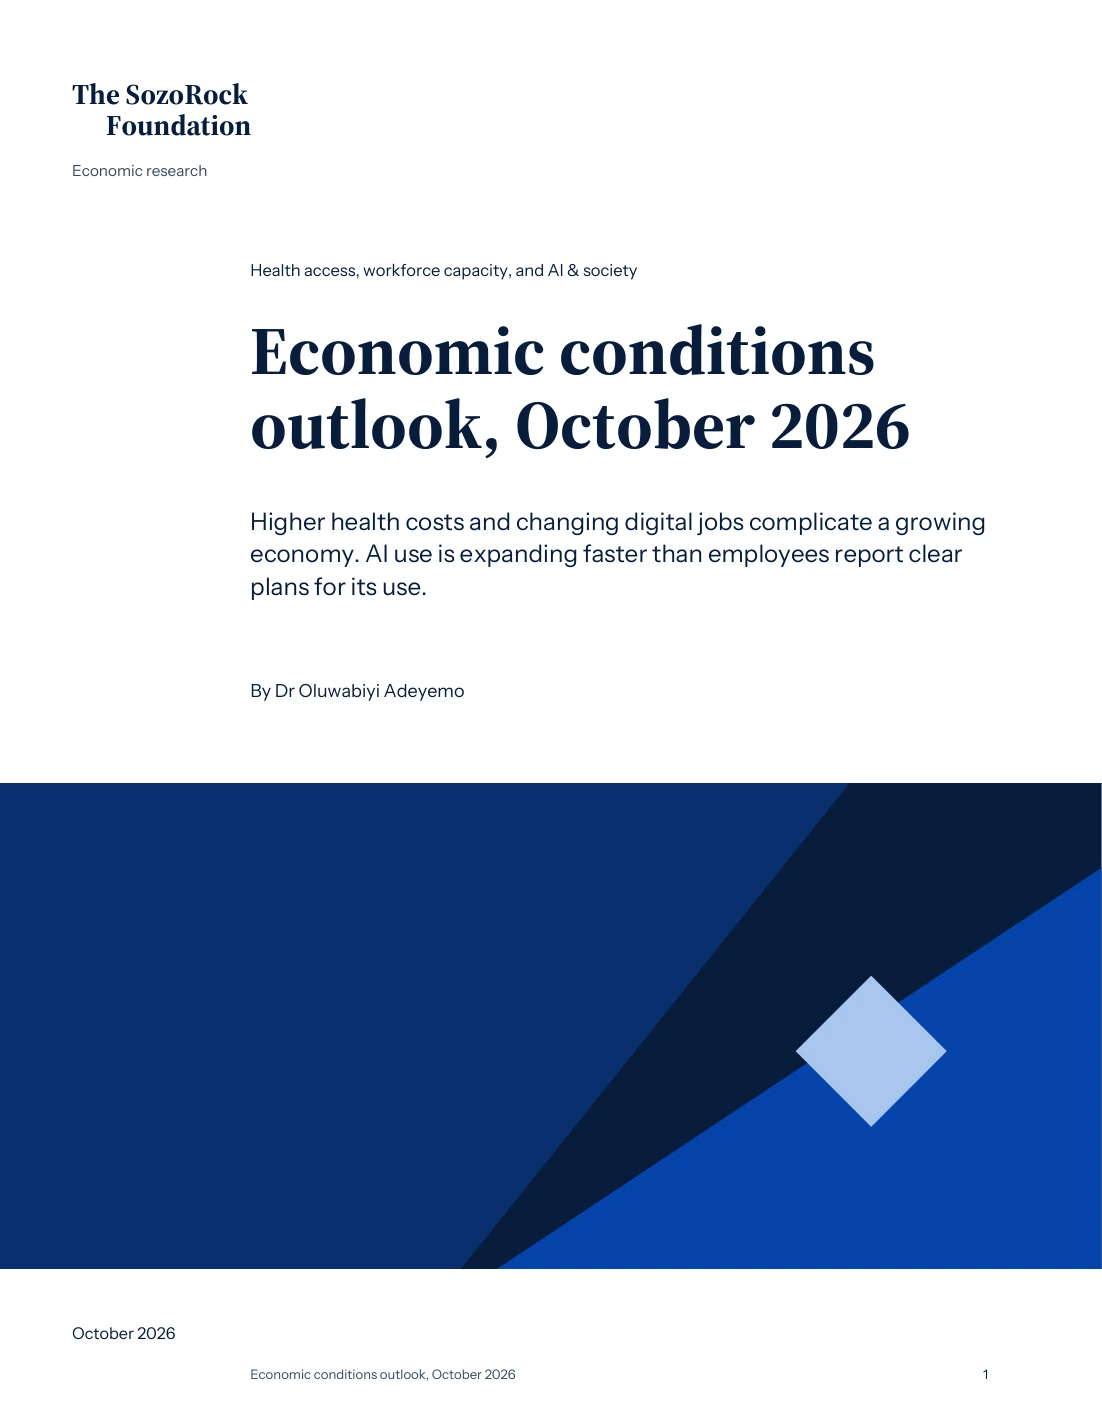
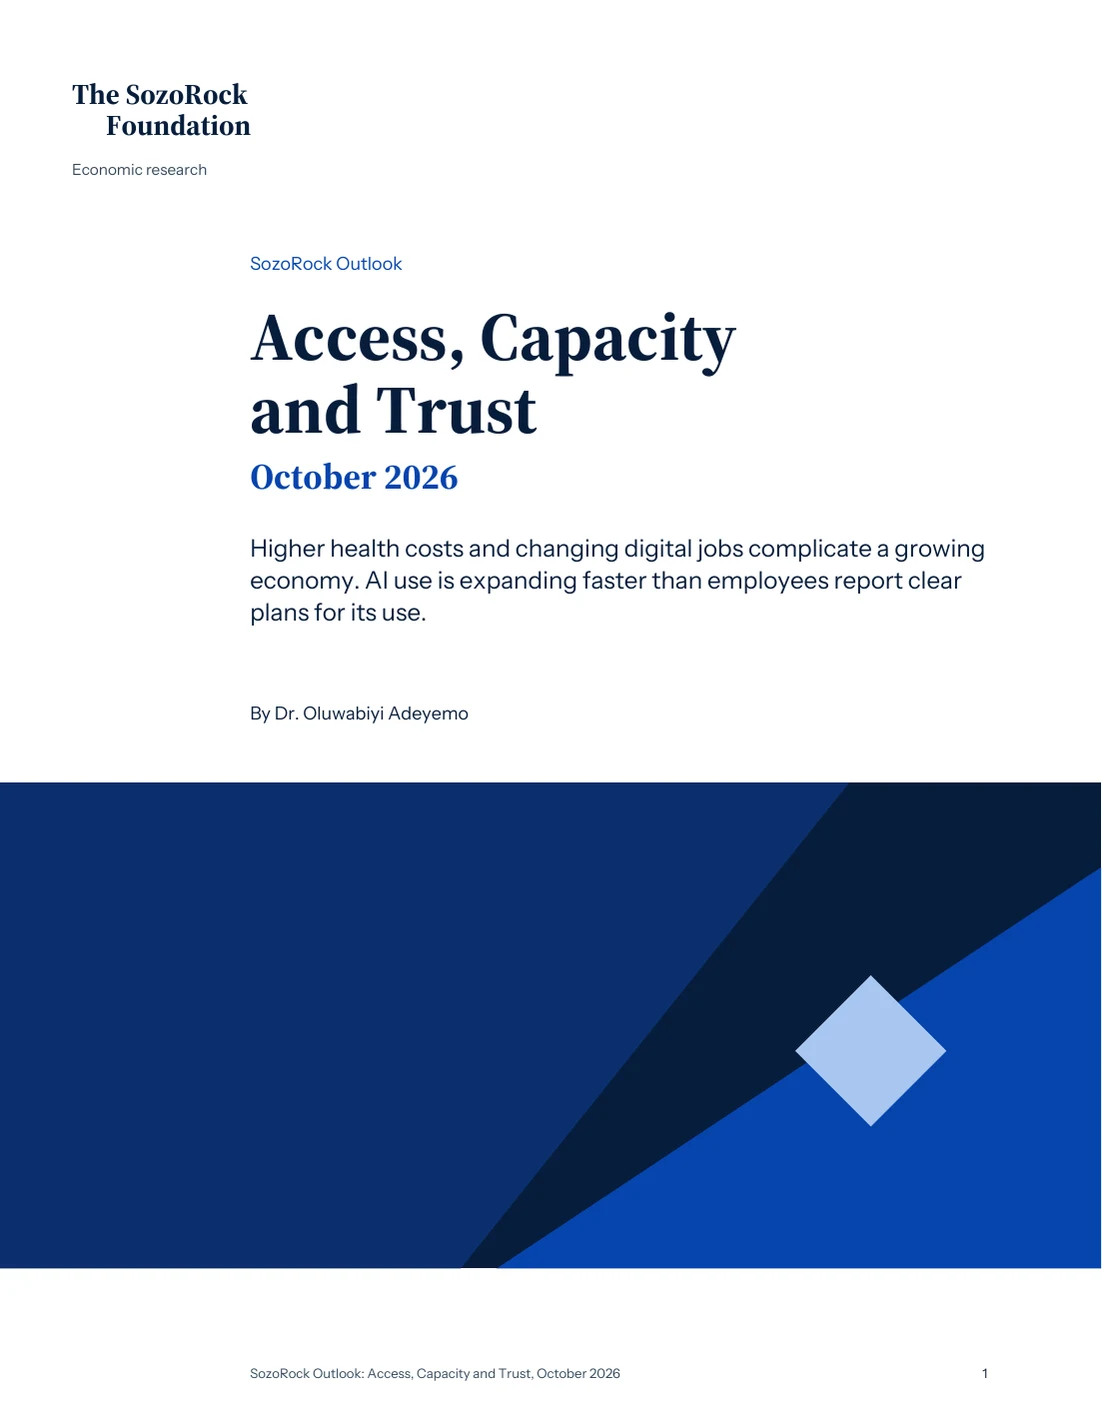
Retitle the October outlook as SozoRock Outlook: Access, Capacity and Trust

diff --git a/src/site/outlook.jsx b/src/site/outlook.jsx
@@ -47,7 +47,7 @@ function Exhibit({ outlook, number, label }) {
 
 export function OutlookFeature({ outlook, compact = false }) {
   return <article className={`outlook-feature ${compact ? "is-compact" : ""}`}>
-    <div><p className="ns-eyebrow">Economic outlook · {outlook.date}</p><h2 className="ns-stmt s40"><Link href={outlook.path}>{outlook.title}</Link></h2><p className="ns-body">Higher health costs and changing digital jobs complicate a growing economy. The choices institutions make will shape access, employment, and accountable services.</p><div className="ns-actions"><Btn href={outlook.path}>Read the outlook</Btn><span className="ns-src">By {outlook.author} · 9-page download</span></div></div>
+    <div><p className="ns-eyebrow">{outlook.series} · {outlook.date}</p><h2 className="ns-stmt s40"><Link href={outlook.path}>{outlook.displayTitle}</Link></h2><p className="ns-body">Higher health costs and changing digital jobs complicate a growing economy. The choices institutions make will shape access, employment, and accountable services.</p><div className="ns-actions"><Btn href={outlook.path}>Read the outlook</Btn><span className="ns-src">By {outlook.author} · 9-page download</span></div></div>
     <Link className="outlook-feature-cover" href={outlook.path}><img src={outlook.cover} alt={`${outlook.title} cover`} width="612" height="792" loading="lazy" decoding="async" /></Link>
   </article>;
 }
@@ -57,7 +57,7 @@ export function OutlookPage({ outlook }) {
   const url = encodeURIComponent(outlook.canonicalUrl);
   return <article className="ns outlook-page">
     <header className="outlook-hero ns-shell">
-      <div><Link className="outlook-breadcrumb" href="/publications">Research</Link><p className="outlook-label">Economic outlook · {outlook.date}</p><h1>{outlook.title}</h1><p className="outlook-deck">{outlook.abstract}</p><p className="outlook-byline">By <a href={outlook.orcid}>{outlook.author}</a> · Analysis · 5-minute read</p><div className="ns-actions"><Btn href={outlook.accessPath}>Download the nine-page report</Btn><a className="outlook-textlink" href="#outlook-analysis">Read the analysis</a></div><p className="outlook-source">Free PDF with email verification.</p></div>
+      <div><Link className="outlook-breadcrumb" href="/publications">Research</Link><p className="outlook-label">{outlook.series} · {outlook.date}</p><h1>{outlook.displayTitle}</h1><p className="outlook-deck">{outlook.abstract}</p><p className="outlook-byline">By <a href={outlook.orcid}>{outlook.author}</a> · Analysis · 5-minute read</p><div className="ns-actions"><Btn href={outlook.accessPath}>Download the nine-page report</Btn><a className="outlook-textlink" href="#outlook-analysis">Read the analysis</a></div><p className="outlook-source">Free PDF with email verification.</p></div>
       <div className="outlook-cover"><img src={outlook.cover} alt={`${outlook.title}, nine-page report cover`} width="612" height="792" fetchPriority="high" decoding="async" /></div>
     </header>
     <div className="outlook-reading" id="outlook-analysis">

diff --git a/docs/publication-standard.md b/docs/publication-standard.md
@@ -1,6 +1,6 @@
 # SozoRock publication standard
 
-Approved reference: Economic conditions outlook, October 2026, the nine-page edition approved by Dr Oluwabiyi Adeyemo. Use this as the standing template for subsequent outlooks unless he requests a change. Do not restart the design or ask him to repeat these preferences.
+Approved reference: SozoRock Outlook: Access, Capacity and Trust, October 2026, the nine-page edition approved by Dr. Oluwabiyi Adeyemo. The series name is SozoRock Outlook; each edition is titled "SozoRock Outlook: Access, Capacity and Trust, [Month Year]" unless he renames it. Do not reuse another publisher's series title. Use this as the standing template for subsequent outlooks unless he requests a change. Do not restart the design or ask him to repeat these preferences.
 
 ## Editorial approach
 
@@ -12,7 +12,7 @@ McKinsey is an editorial and design benchmark. The approved SozoRock edition is 
 
 ## Report structure
 
-1. Cover: Foundation wordmark, economic research label, domains, title, short deck, author, date, and original geometric cover.
+1. Cover: Foundation wordmark, economic research label, the series label "SozoRock Outlook", the title "Access, Capacity and Trust", the edition month in blue serif below it, a short deck, author, and the original geometric cover.
 2. Opening assessment: main argument, one material finding, and a short explanation of the evidence base.
 3. Six analytical pages: one finding per page, supporting prose, one numbered exhibit, units and source notes, and implications.
 4. Final page: the next six to twelve months, institutional choices, conditions to monitor, methods, author, ORCID, and suggested citation.
@@ -29,19 +29,23 @@ Each chart states a finding in its headline. Identify units, population, period,
 - Exhibit headline: 11.7 pt with 14.5 pt leading. Metric line: 8.6 pt with 11.2 pt leading. Source notes: 7.45 pt with 9.7 pt leading. Never shrink body copy to solve a layout problem.
 - Palette: navy #071D3B, cobalt #0644AD, royal #0B2F6E, light blue #A9C6F0, pale blue #DCEAFF, ice #EFF5FF, supporting text #33495D, and white.
 - Footer title and page number: 7.3 pt, top coordinate 759 points. Keep content clear of the footer; analytical content must end above 730 points.
+- Close every exhibit with the publisher mark "The SozoRock Foundation" in the wordmark serif, below its source notes. Prose figures that are not charted carry their own linked source line on the page.
+- No divider lines or hairlines; separate blocks with space.
 - Use vector text and charts, embedded fonts, clickable sources, and bookmarks. No page screenshots in the report. Inspect every page at normal reading size and magnified.
 
 The implementation in build.py is the measurement reference. Preserve the visual system while updating the analysis and dates. The article may use the report serif for editorial headings while retaining the Foundation website navigation, brand colors, and controls.
 
 ## Attribution and metadata
 
-Author: Dr Oluwabiyi Adeyemo. Publisher: The SozoRock Foundation, Inc. ORCID: https://orcid.org/0009-0008-5215-5609. Use the approved Foundation role where relevant; do not describe the author as founder.
+Author: Dr. Oluwabiyi Adeyemo. Publisher: The SozoRock Foundation, Inc. ORCID: https://orcid.org/0009-0008-5215-5609. Use the approved Foundation role where relevant; do not describe the author as founder.
 
-PDF document properties contain only Title, Author, and Creator. The title is the publication title, author is Dr Oluwabiyi Adeyemo, and creator is The SozoRock Foundation, Inc. Do not add software producer names, tool identifiers, production keywords, or XMP. Preserve actual research content, including discussion of artificial intelligence. No DOI is assigned to these outlooks.
+PDF document properties contain only Title, Author, and Creator. The title is the publication title, author is Dr. Oluwabiyi Adeyemo, and creator is The SozoRock Foundation, Inc. Do not add software producer names, tool identifiers, production keywords, or XMP. Preserve actual research content, including discussion of artificial intelligence. No DOI is assigned to these outlooks.
 
 ## Publication and distribution
 
 Give every edition one permanent Foundation article URL. Make the abstract and article publicly readable before the free PDF download. Use the established email-verification service for the PDF. Keep marketing consent separate and optional. Include readable citations and author attribution, a canonical URL, a search sitemap entry, and accurate social previews. Do not promise indexing or citations.
+
+Link previews use a title card: series label, title, edition month, author, and the cover's geometric field. Posts open with the edition and then the findings, for example "The latest SozoRock Outlook is out. In this edition: ...", followed by the article link.
 
 X: one sharp finding, its implication, and the article link. Keep the final post within 280 characters including the platform-shortened link. Use a legible chart graphic.
 
